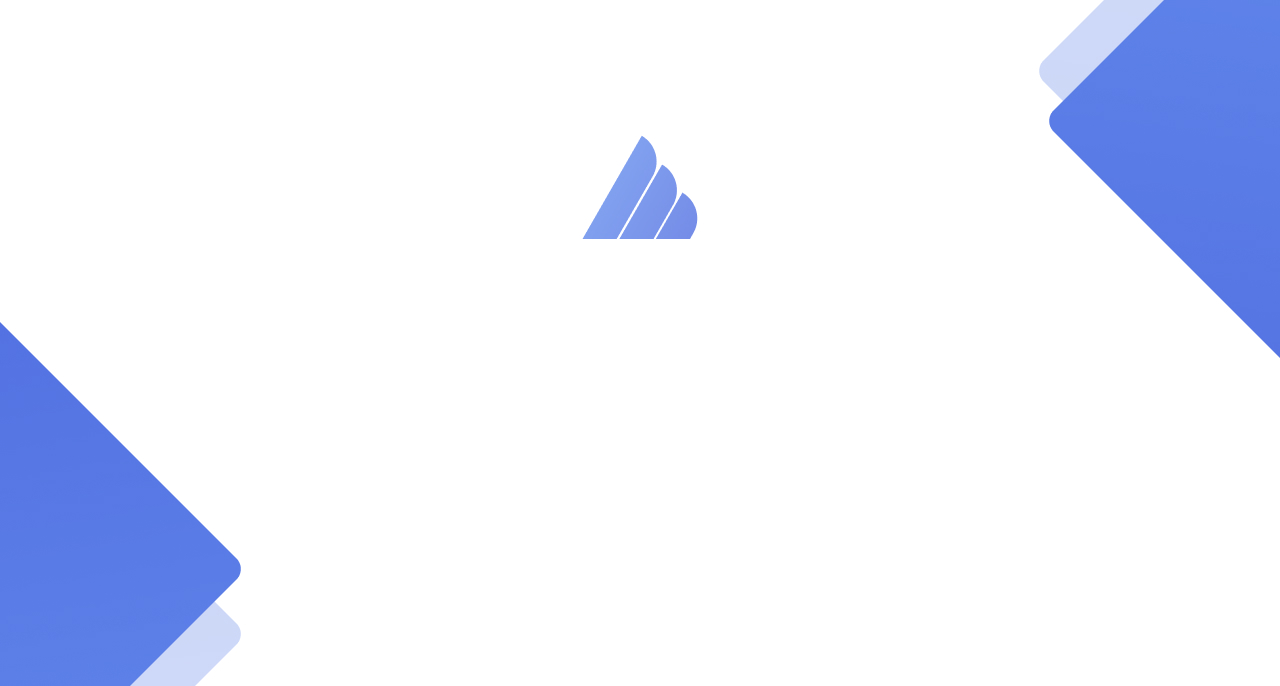
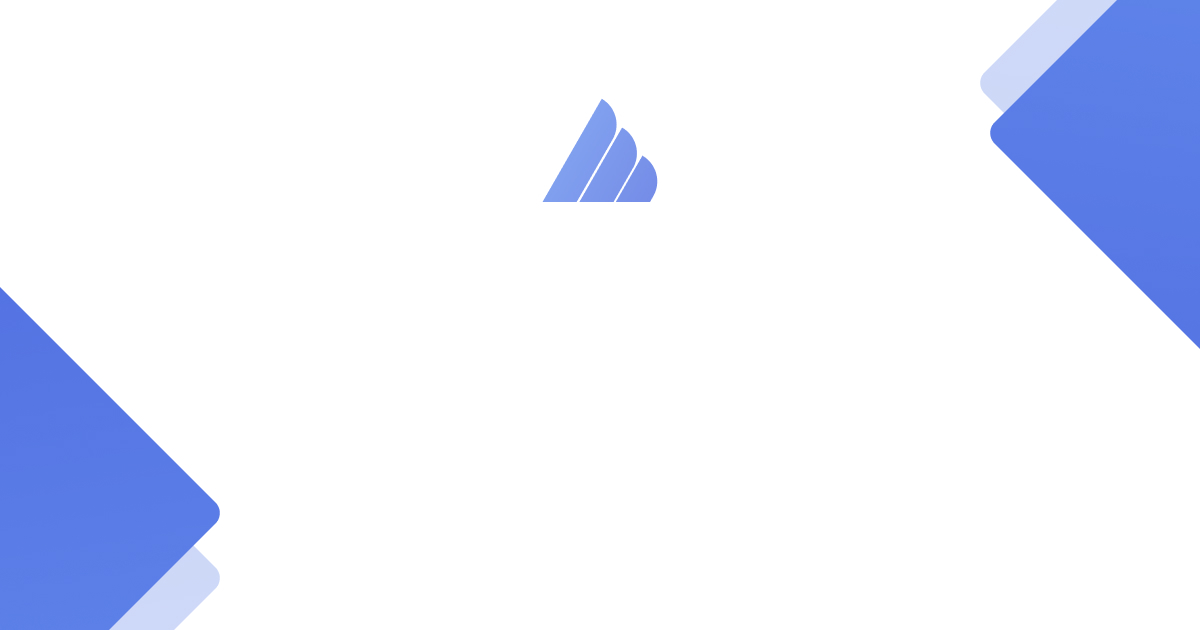
updated image size to original 1200x630

diff --git a/plugins/gatsby-plugin-social-banners/index.js b/plugins/gatsby-plugin-social-banners/index.js
@@ -6,7 +6,7 @@ module.exports = ({ markdownNode }) => {
   const { frontmatter, fields } = markdownNode;
   if (fields.posttype === 'case-studies') return;
 
-  const output = path.join('./public', fields.slug, 'social-banner.jpg');
+  const output = path.join('./public', fields.slug, 'social-banner-img.jpg');
   // console.log(`markdownNode plugin:${JSON.stringify(markdownNode, null, 2)}`);
 
   return Promise.all([
@@ -15,11 +15,11 @@ module.exports = ({ markdownNode }) => {
     jimp.loadFont(path.join(__dirname, 'karla-26-regular.fnt'))
   ]).then(([image, montserrat, karla]) => {
     image
-      .resize(1280, 686)
+      .resize(1200, 630)
       .print(
         montserrat,
-        179,
-        268,
+        139,
+        231,
         {
           text: frontmatter.title,
           alignmentX: jimp.HORIZONTAL_ALIGN_CENTER,
@@ -31,13 +31,13 @@ module.exports = ({ markdownNode }) => {
       .print(
         karla,
         0,
-        471,
+        434,
         {
           text: `${dateformat(frontmatter.date, 'mmmm d, yyyy')}  |  Anurag Hazra`,
           alignmentX: jimp.HORIZONTAL_ALIGN_CENTER,
           alignmentY: jimp.VERTICAL_ALIGN_MIDDLE
         },
-        1280,
+        1200,
         44
       )
       .write(output);

diff --git a/src/components/seo.js b/src/components/seo.js
@@ -51,7 +51,7 @@ function SEO({ title, description, slug, isBlogPost }) {
   let ogimage = `${defaults.siteUrl}${socialBanner}`;
 
   if (isBlogPost) {
-    ogimage = `${defaults.siteUrl}${slug}/social-banner.jpg`;
+    ogimage = `${defaults.siteUrl}${slug}/social-banner-img.jpg`;
   }
   // console.log({ url, title, description, twitter, ogimage, imageWidth, imageHeight })
   return (
